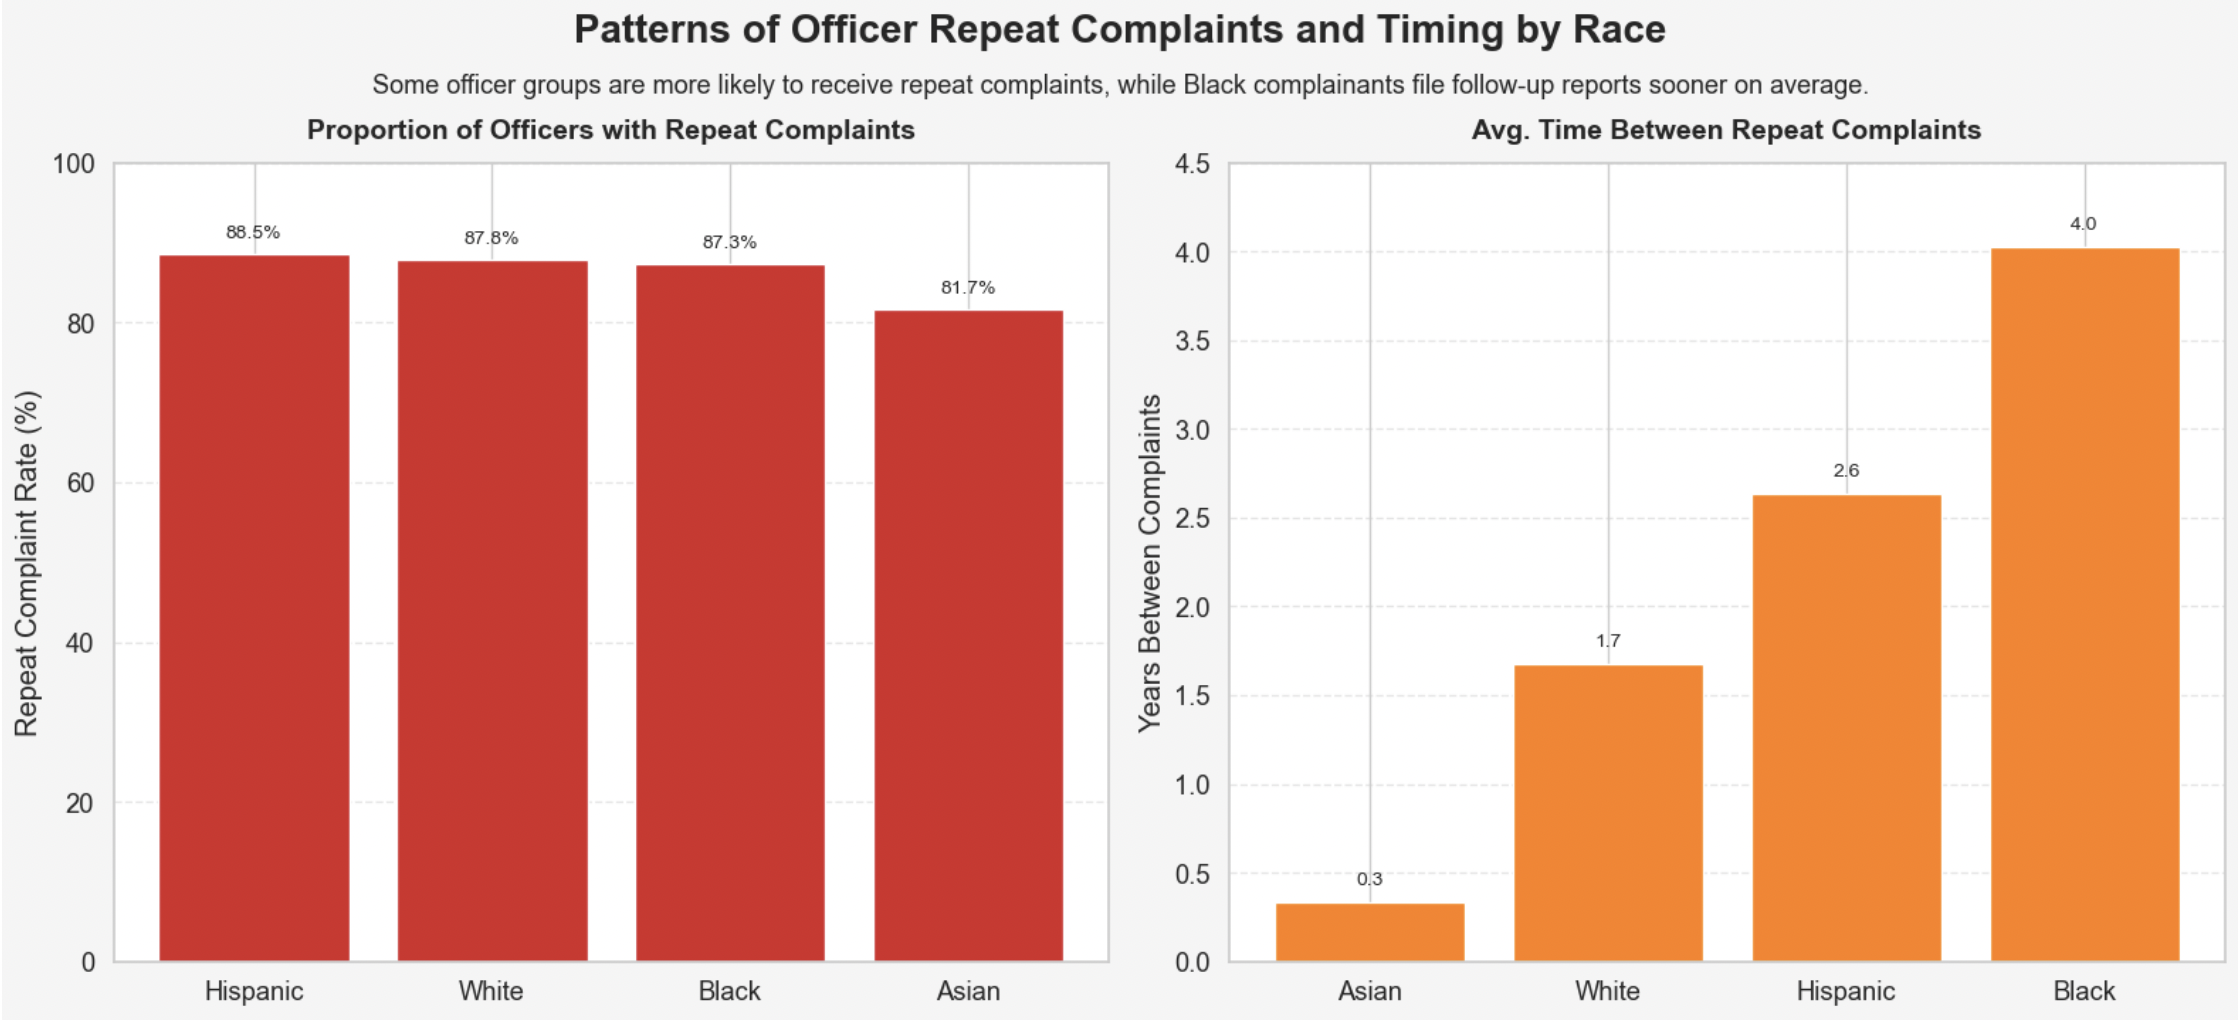
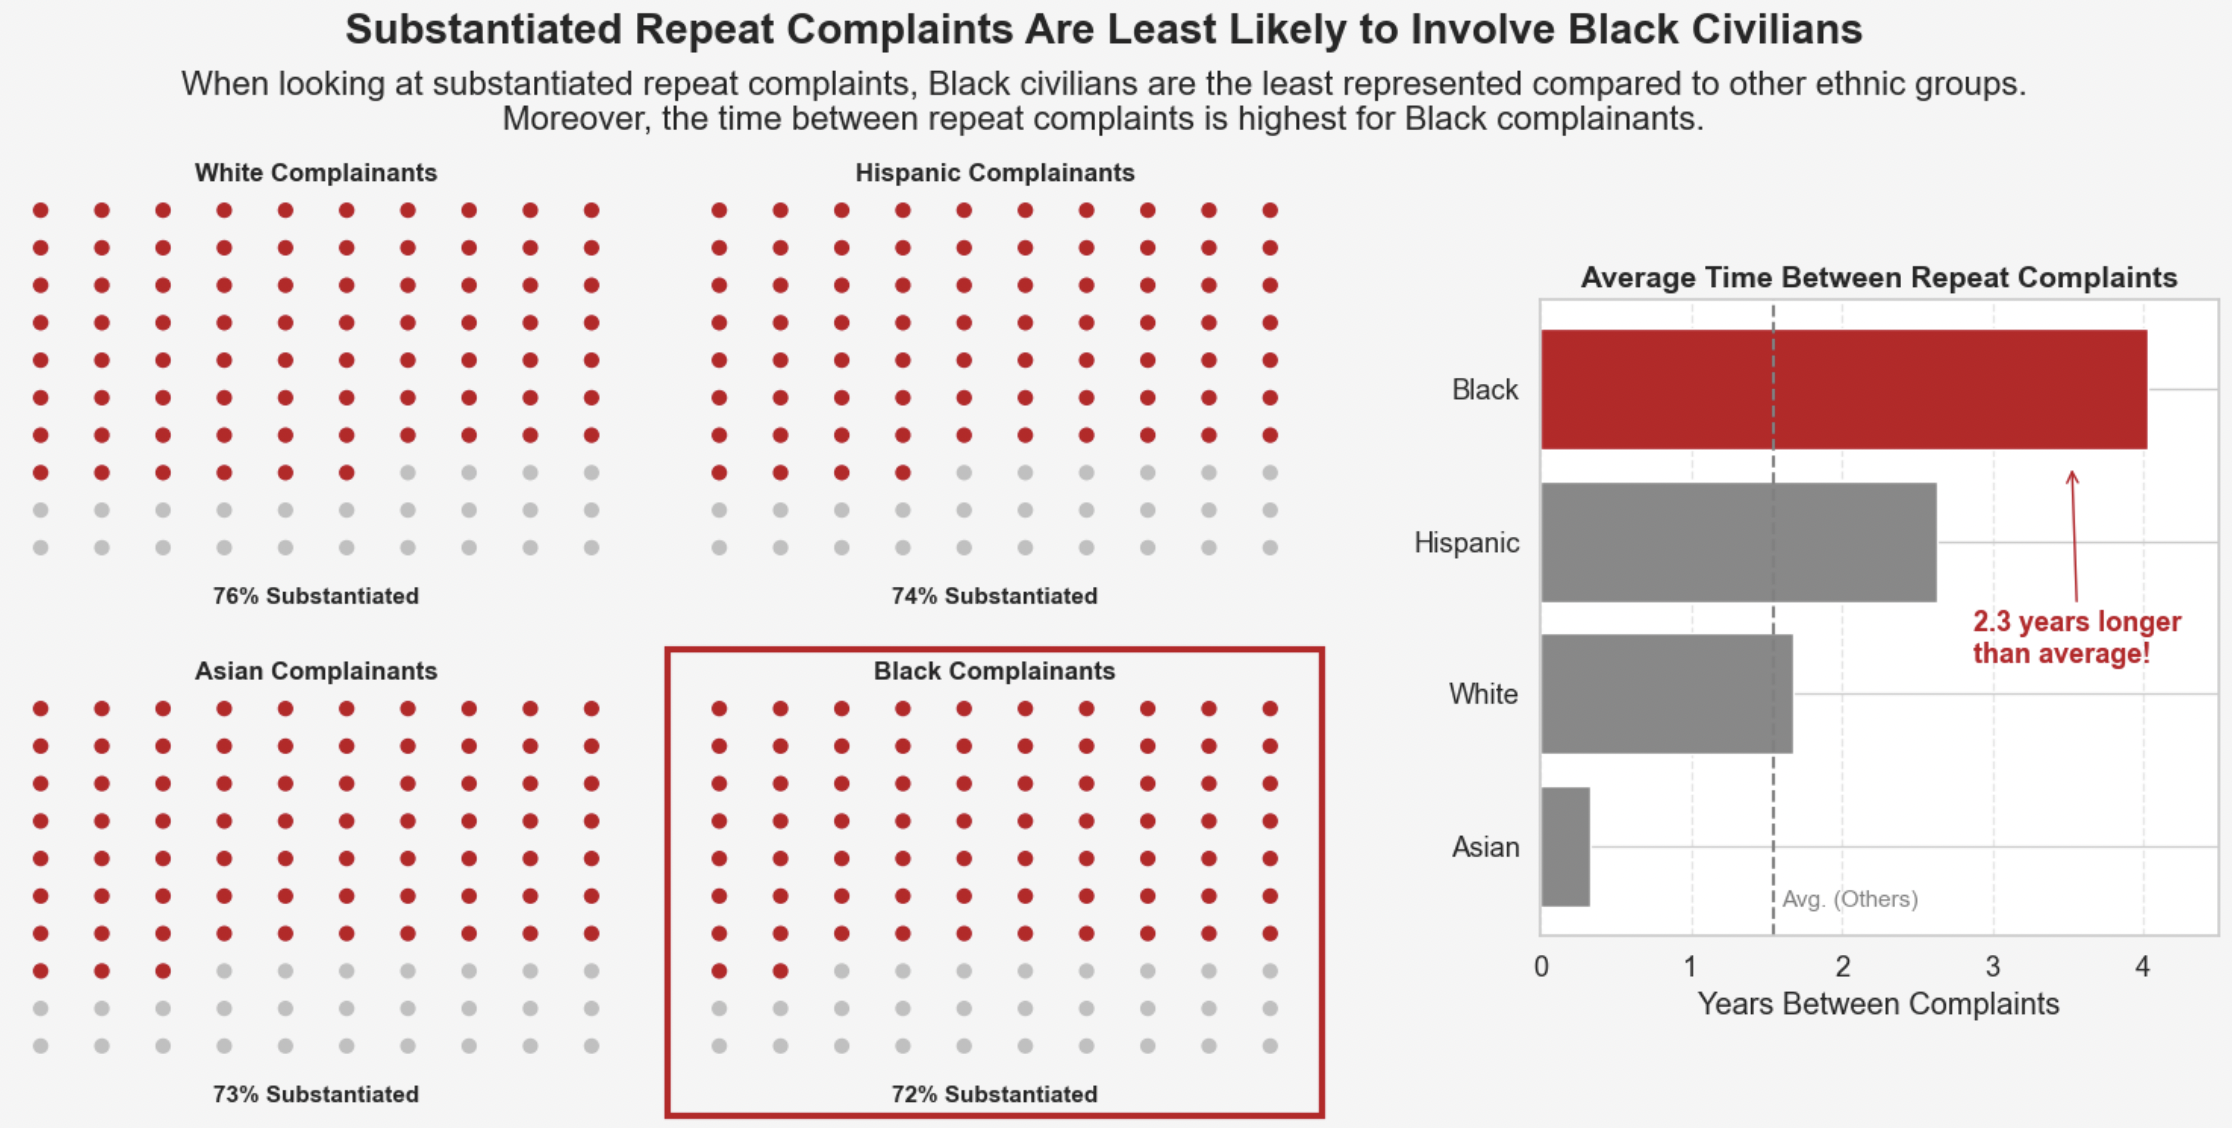
Add files via upload

diff --git a/index.html b/index.html
@@ -138,6 +138,13 @@
           }
         }
       }
+
+      figure img {
+        width: 100%;
+        height: auto;
+        display: block;
+        max-width: 100%;
+      }
     </style>
   </head>
 
@@ -152,43 +159,43 @@
     </header>
 
     <main>
-      <h2>Proposition: Black complainants are disproportionately likely to report<br>repeat incidents with the same officer.</h2>
+      <h2>Proposition: Black complainants are disproportionately involved in repeat incidents with the same police officers.</h2>
 
       <section>
         <h3>FOR the Proposition</h3>
 
         <figure>
-          <img src="pro_visualization.png" alt="decreasing exoneration trend with age" width="1000"/>
-          <figcaption>Younger officers appear to benefit from a higher likelihood of exoneration, raising concerns about unequal accountability.</figcaption>
+          <img src="pro_visualization.png" alt="decreasing exoneration trend with age"/>
+          <figcaption>Black complainants file repeat complaints more often and more consistently, highlighting a persistent pattern of officer misconduct.</figcaption>
         </figure>
 
         <p>Design Decisions and Rationale:</p>
 
         <ul>
-          <li><strong>Y-axis Truncation (0.04 to 0.058)</strong></li>
+          <li><strong>Cumulative Line Plot by Ethnicity</strong></li>
           <ul>
-            <li>Rating: -2 (Highly Deceptive)</li>
-            <li>Rationale: Drastically exaggerates what is only a ~1% variation, making it appear more dramatic.</li>
+            <li>Rating: +2 (Fully Earnest)</li>
+            <li>Rationale: Provides an accurate, unaggregated view of repeat complaint growth over time. Supports direct comparison without manipulation or smoothing.</li>
           </ul>
-          <li><strong>Color Choice (forestgreen)</strong></li>
+          <li><strong>Shaded Area Under Black Line</strong></li>
           <ul>
-            <li>Rating: -1 (Mildly Deceptive)</li>
-            <li>Rationale: Green implies approval/success, subtly associating youth with positivity.</li>
+            <li>Rating: +1 (Slightly Earnest)</li>
+            <li>Rationale: Draws subtle attention to the Black trendline, reinforcing the proposition without altering underlying data. Aids clarity more than persuasion.</li>
           </ul>
-          <li><strong>Regression Smoothing (Lowess)</strong></li>
-          <ul>
-            <li>Rating: +1.5 (Mostly Earnest)</li>
-            <li>Rationale: Emphasizes general trend cleanly. No outlier distortion.</li>
-          </ul>
-          <li><strong>Highlighting Peak Zone with Shaded Region</strong></li>
+          <li><strong>Muted Colors for Non-Black Groups</strong></li>
           <ul>
             <li>Rating: -0.5 (Mildly Deceptive)</li>
-            <li>Rationale: Draws attention selectively to the most favorable range.</li>
+            <li>Rationale: De-emphasizes other ethnic groups by assigning them lower-contrast colors, visually prioritizing Black complainants regardless of proximity.</li>
           </ul>
-          <li><strong>Title Language (“More Likely”)</strong></li>
+          <li><strong>Y-Axis Truncation on Bar Chart (Starts at 40%)</strong></li>
           <ul>
-            <li>Rating: -1 (Moderately Deceptive)</li>
-            <li>Rationale: “More likely” sounds substantial, though the magnitude of change is small.</li>
+            <li>Rating: -1.5 (Moderately Deceptive)</li>
+            <li>Rationale: Amplifies perceived differences between groups. Although the order remains true, the effect size is exaggerated visually.</li>
+          </ul>
+          <li><strong>Spike Annotation for Black Line</strong></li>
+          <ul>
+            <li>Rating: +1 (Mostly Earnest)</li>
+            <li>Rationale: Highlights a real historical trend but selectively directs viewer attention to the most dramatic change, reinforcing the argument narrative.</li>
           </ul>
         </ul>
       </section>
@@ -197,49 +204,54 @@
         <h3>AGAINST the Proposition</h3>
 
         <figure>
-          <img src="against_visualization.png" alt="neutral exoneration trend across ages" width="1000"/>
+          <img src="against_visualization.png" alt="neutral exoneration trend across ages"/>
           <figcaption>Despite small fluctuations, exoneration rates remain relatively stable across officer ages, suggesting minimal influence of age.</figcaption>
         </figure>
 
         <p>Design Decisions and Rationale:</p>
 
         <ul>
-          <li><strong>Use of Full Y-axis (0 to 0.6)</strong></li>
-          <ul>
-            <li>Rating: +2 (Earnest)</li>
-            <li>Rationale: Avoids exaggerating small fluctuations. Creates a stable, flat visual narrative in support of the counter-argument.</li>
-          </ul>
-          <li><strong>Neutral Color Choice (darkorange)</strong></li>
-          <ul>
-            <li>Rating: +1.5 (Mostly Earnest)</li>
-            <li>Rationale: Orange is attention-grabbing but not emotionally loaded like red or green. Keeps tone moderate and less persuasive.</li>
-          </ul>
-          <li><strong>Mean Line with Annotation</strong></li>
-          <ul>
-            <li>Rating: +1.5 (Mostly Earnest)</li>
-            <li>Rationale: Reinforces the central message of stability. Helps viewers orient their interpretation around a consistent baseline.</li>
-          </ul>
-          <li><strong>Framing of Age 41 Dip as Minor</strong></li>
-          <ul>
-            <li>Rating: -0.5 (Mildly Deceptive)</li>
-            <li>Rationale: Reinforces the central message of stability. Helps viewers orient their interpretation around a consistent baseline.</li>
-          </ul>
-          <li><strong>X-axis Range Restriction (22-45)</strong></li>
+          <li><strong>Red Border Around Black Complainant Waffle</strong></li>
           <ul>
             <li>Rating: -1 (Moderately Deceptive)</li>
-            <li>Rationale: Focuses on a subset of ages where the data looks flatter, avoiding visible patterns at higher ages.</li>
+            <li>Rationale: Visually singles out Black complainants as the focal point, priming the viewer to interpret their group as uniquely underrepresented—even though substantiation rates are similar across groups.</li>
+          </ul>
+
+          <li><strong>Dot-Based Waffle Representation</strong></li>
+          <ul>
+            <li>Rating: +2 (Fully Earnest)</li>
+            <li>Rationale: Offers a transparent, intuitive way to represent proportions without distortion. Every dot equals 1%, allowing fair visual comparison between groups.</li>
+          </ul>
+
+          <li><strong>Use of Red for the Longest Bar</strong></li>
+          <ul>
+            <li>Rating: +0.5 (Slightly Earnest)</li>
+            <li>Rationale: Emphasizes the Black group's average wait time through color, guiding attention without altering the underlying scale or data.</li>
+          </ul>
+
+          <li><strong>2.3-Year Annotation with Arrow</strong></li>
+          <ul>
+            <li>Rating: +1 (Mostly Earnest)</li>
+            <li>Rationale: Helps quantify the disparity clearly, but strategically directs focus only to the most extreme value to support the counter-argument.</li>
+          </ul>
+
+          <li><strong>Sorted Waffle Layout by Substantiation Rate</strong></li>
+          <ul>
+            <li>Rating: +1.5 (Mostly Earnest)</li>
+            <li>Rationale: Ordering groups from highest to lowest substantiation subtly frames Black complainants as trailing others, reinforcing the key narrative without altering values.</li>
           </ul>
         </ul>
+
       </section>
 
       <section>
         <h2>Final Reflection</h2>
-
-        <p>Designing both plots required balancing clarity with persuasion. For the "neutral" plot, I intentionally used full y-axis scaling, a soft palette, and mean-line anchoring to convey stability and lack of trend. However, I still excluded older officers to avoid emerging trends — subtly deceptive but defensible in context.
-
-          The persuasive plot, by contrast, uses several deceptive strategies: truncated y-axis, emotionally positive colors, and a shaded peak range to amplify a minor difference. Despite this, none of the visual choices are dishonest — they all exist on the spectrum of rhetorical framing.
-          
-          This project helped me realize that ethical visualization is not a binary. It's a craft of balance. Acceptable persuasive design is about subtle emphasis, not distortion. Misleading design, in contrast, breaks audience trust by obscuring structure or fabricating significance. The goal should be to guide interpretation, not to rig it.</p>
+      
+        <p>Designing persuasive visualizations for the proposition <em>“Black complainants are disproportionately involved in repeat incidents with the same police officers”</em> challenged me to think critically about how data transformations and visual framing influence perception. The first visualization — supporting the proposition — relied on straightforward cumulative aggregation and a calculated repeat-complaint rate to emphasize disparity. It was relatively easy to construct and required minimal manipulation: the trends were visually self-evident once grouped by ethnicity and filtered for officer-level repetition. The second visualization — opposing the proposition — required more nuanced transformations. I had to isolate only repeat complaints and then calculate the proportion that were substantiated for each group. Additionally, I computed average time gaps between incidents, which added a compelling dimension to the argument.</p>
+      
+        <p>What surprised me most during this process was how small, subtle visual choices could shift a narrative dramatically. For instance, the shaded background behind the Black trendline in the first chart draws immediate attention without changing the underlying structure. Meanwhile, the red border around the Black waffle chart in the second visualization has a much more forceful visual effect, which, while persuasive, also borders on manipulative if not justified. It taught me that ethical visualization doesn't always mean avoiding persuasive techniques — it means applying them transparently and with restraint.</p>
+      
+        <p>Through this project, I've come to define ethical visualization as the act of guiding interpretation while preserving structural honesty. Persuasion is acceptable — even expected — in argumentative visuals, but deception crosses a line when it obscures data patterns or selectively filters reality. Acceptable persuasive choices emphasize or reframe; misleading ones distort or fabricate. Ultimately, this project helped me embrace the tension between advocacy and accuracy, and how thoughtful design can support both. I now approach visual storytelling not as a tool for truth or bias, but as a medium for deliberate, principled framing.</p>
       </section>
     </main>
   </body>
